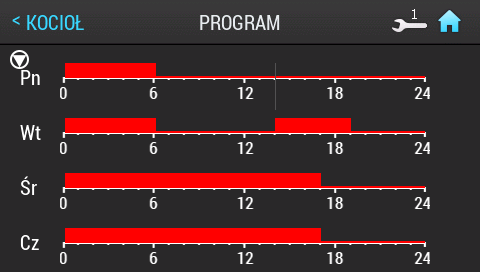
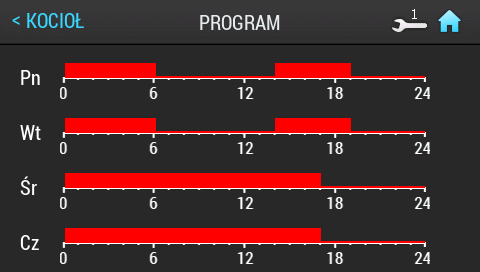
PROGRAM: tlo karty = zrzut z emulatora (artefakty renderu), backlog

Changed region(s): [[0.5625, 0.2059, 0.75, 0.2941], [0.0625, 0.0294, 0.1875, 0.1176], [0.0, 0.1765, 0.0625, 0.2647]]

diff --git a/tools/export_card_screen.py b/tools/export_card_screen.py
@@ -24,7 +24,7 @@ else:
     assert nav.tap_row_from_top(row); s.wait(700)
 if settings: s.tap(400, 245, settle=800); s.wait(500)
 for tp in filter(None, os.environ.get("EXTRA_TAPS", "").split(";")):      # np. EXTRA_TAPS="414,130" (kolejne stukniecia po wejsciu w ekran)
-    x_, y_ = [int(v) for v in tp.split(",")]; s.tap(x_, y_, settle=900); s.wait(400)
+    x_, y_ = [int(v) for v in tp.split(",")]; s.tap(x_, y_, settle=900); s.wait(int(os.environ.get("EXTRA_WAIT", "400")))
 ws = C.widget_table(s, t); ex = X.extract(s, ws); ref = s.shot()
 dyn = []; static = []
 for w in ws:

diff --git a/NewEstyma/BACKLOG.md b/NewEstyma/BACKLOG.md
@@ -12,3 +12,4 @@ Zasada (PLAN_ZAMKNIECIA_I_PORZADKU.md): po osiągnięciu bramki toru nowe tematy
 | 2026-11-24 | Krok dialogu liczbowego listy (list_dialog_step.py): wyniki WIARYGODNE tylko dla Kocioła, wiersze 0,1,2,4 (krok 1/1); reszta zera = błąd metody | agent UI | Pułapki: punkt kontrolny węzła `N_settings` NIE jest na górze listy (np. Palnik startuje przewinięty do "Korekta powietrza"); kolejność wierszy listy zależy od poziomu/grup (separatory z kluczem), a wiersz z lists.json może nie być osiągalny przesuwem w tym samym układzie; szybki swipe otwiera dialog zamiast przewijać (użyć swipe z pause_end=160). Naprawa: najpierw przewinąć do góry (go_top), potem znajdować wiersz po napisie etykiety (tekst na ekranie), nie po adresie widgetu. |
 | 2026-11-24 | Stan 'online bez alarmow' macierzy pokrycia (LiveSim karmi moduly -> alarmy 100/105/110 gasna) | agent UI | zmierzone komorki = offline+alarm (domyslny stan emulatora) |
 | 2026-11-24 | visible_in vs rzeczywiste MENU: 19 komorek (L1/L3 DEFAULT, 2105=0/2) oczekiwanych a niewidocznych | agent UI | zob. coverage_matrix_agent.json status NOT_VISIBLE_IN_EMULATOR; mapowanie konfiguracja->PID (DEFAULT=2105=1,2106..8=0) to INFERENCE |
+| 2026-11-24 | Render z danych ekranu PROGRAM daje artefakty (ikona w kolku, brak drugiego segmentu Pn, pionowa linia): segmenty = boxy o szerokosci 0 w parentach 370x71 - sprawdzic czy przycinanie do przodkow (clip_rect) lub widocznosc wg RAM; w karcie uzyto zrzutu ref | agent UI | wynik 'ikona' zgloszony przez wlasciciela |
